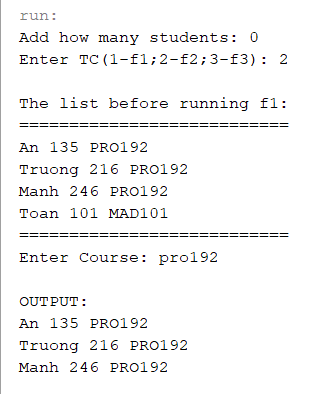
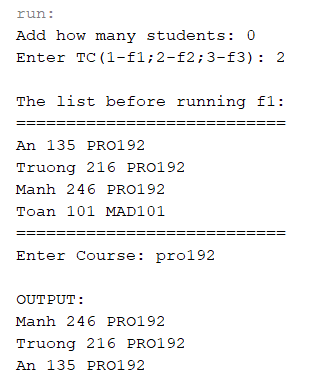
Fixed Case2-sorting

Changed region(s): [[0.0, 0.0, 0.9114, 1.0], [0.057, 0.0287, 0.9114, 0.1723]]

diff --git a/Q3.Ans/src/q3/ans/FptStudent.java b/Q3.Ans/src/q3/ans/FptStudent.java
@@ -37,12 +37,12 @@ public class FptStudent implements IStudent {
                 sameCourse.add(s);
             }
         }
-        for (int i = t.size() - 1; i >= 0; i--) {
+        for (int i = sameCourse.size() - 1; i >= 0; i--) {
             for (int j = 0; j < i; j++) {
-                int s1 = t.get(j).getCode();
-                int s2 = t.get(j + 1).getCode();
-                if (s1 < s2) {
-                    Collections.swap(t, j, j + 1);
+                int code1 = sameCourse.get(j).code;
+                int code2 = sameCourse.get(j+1).code;
+                if(code1 < code2) {
+                    Collections.swap(sameCourse, j, j+1);
                 }
             }
         }

diff --git a/Q3.Ans/src/q3/ans/Student.java b/Q3.Ans/src/q3/ans/Student.java
@@ -1,3 +1,4 @@
+
 /*
  * To change this license header, choose License Headers in Project Properties.
  * To change this template file, choose Tools | Templates
